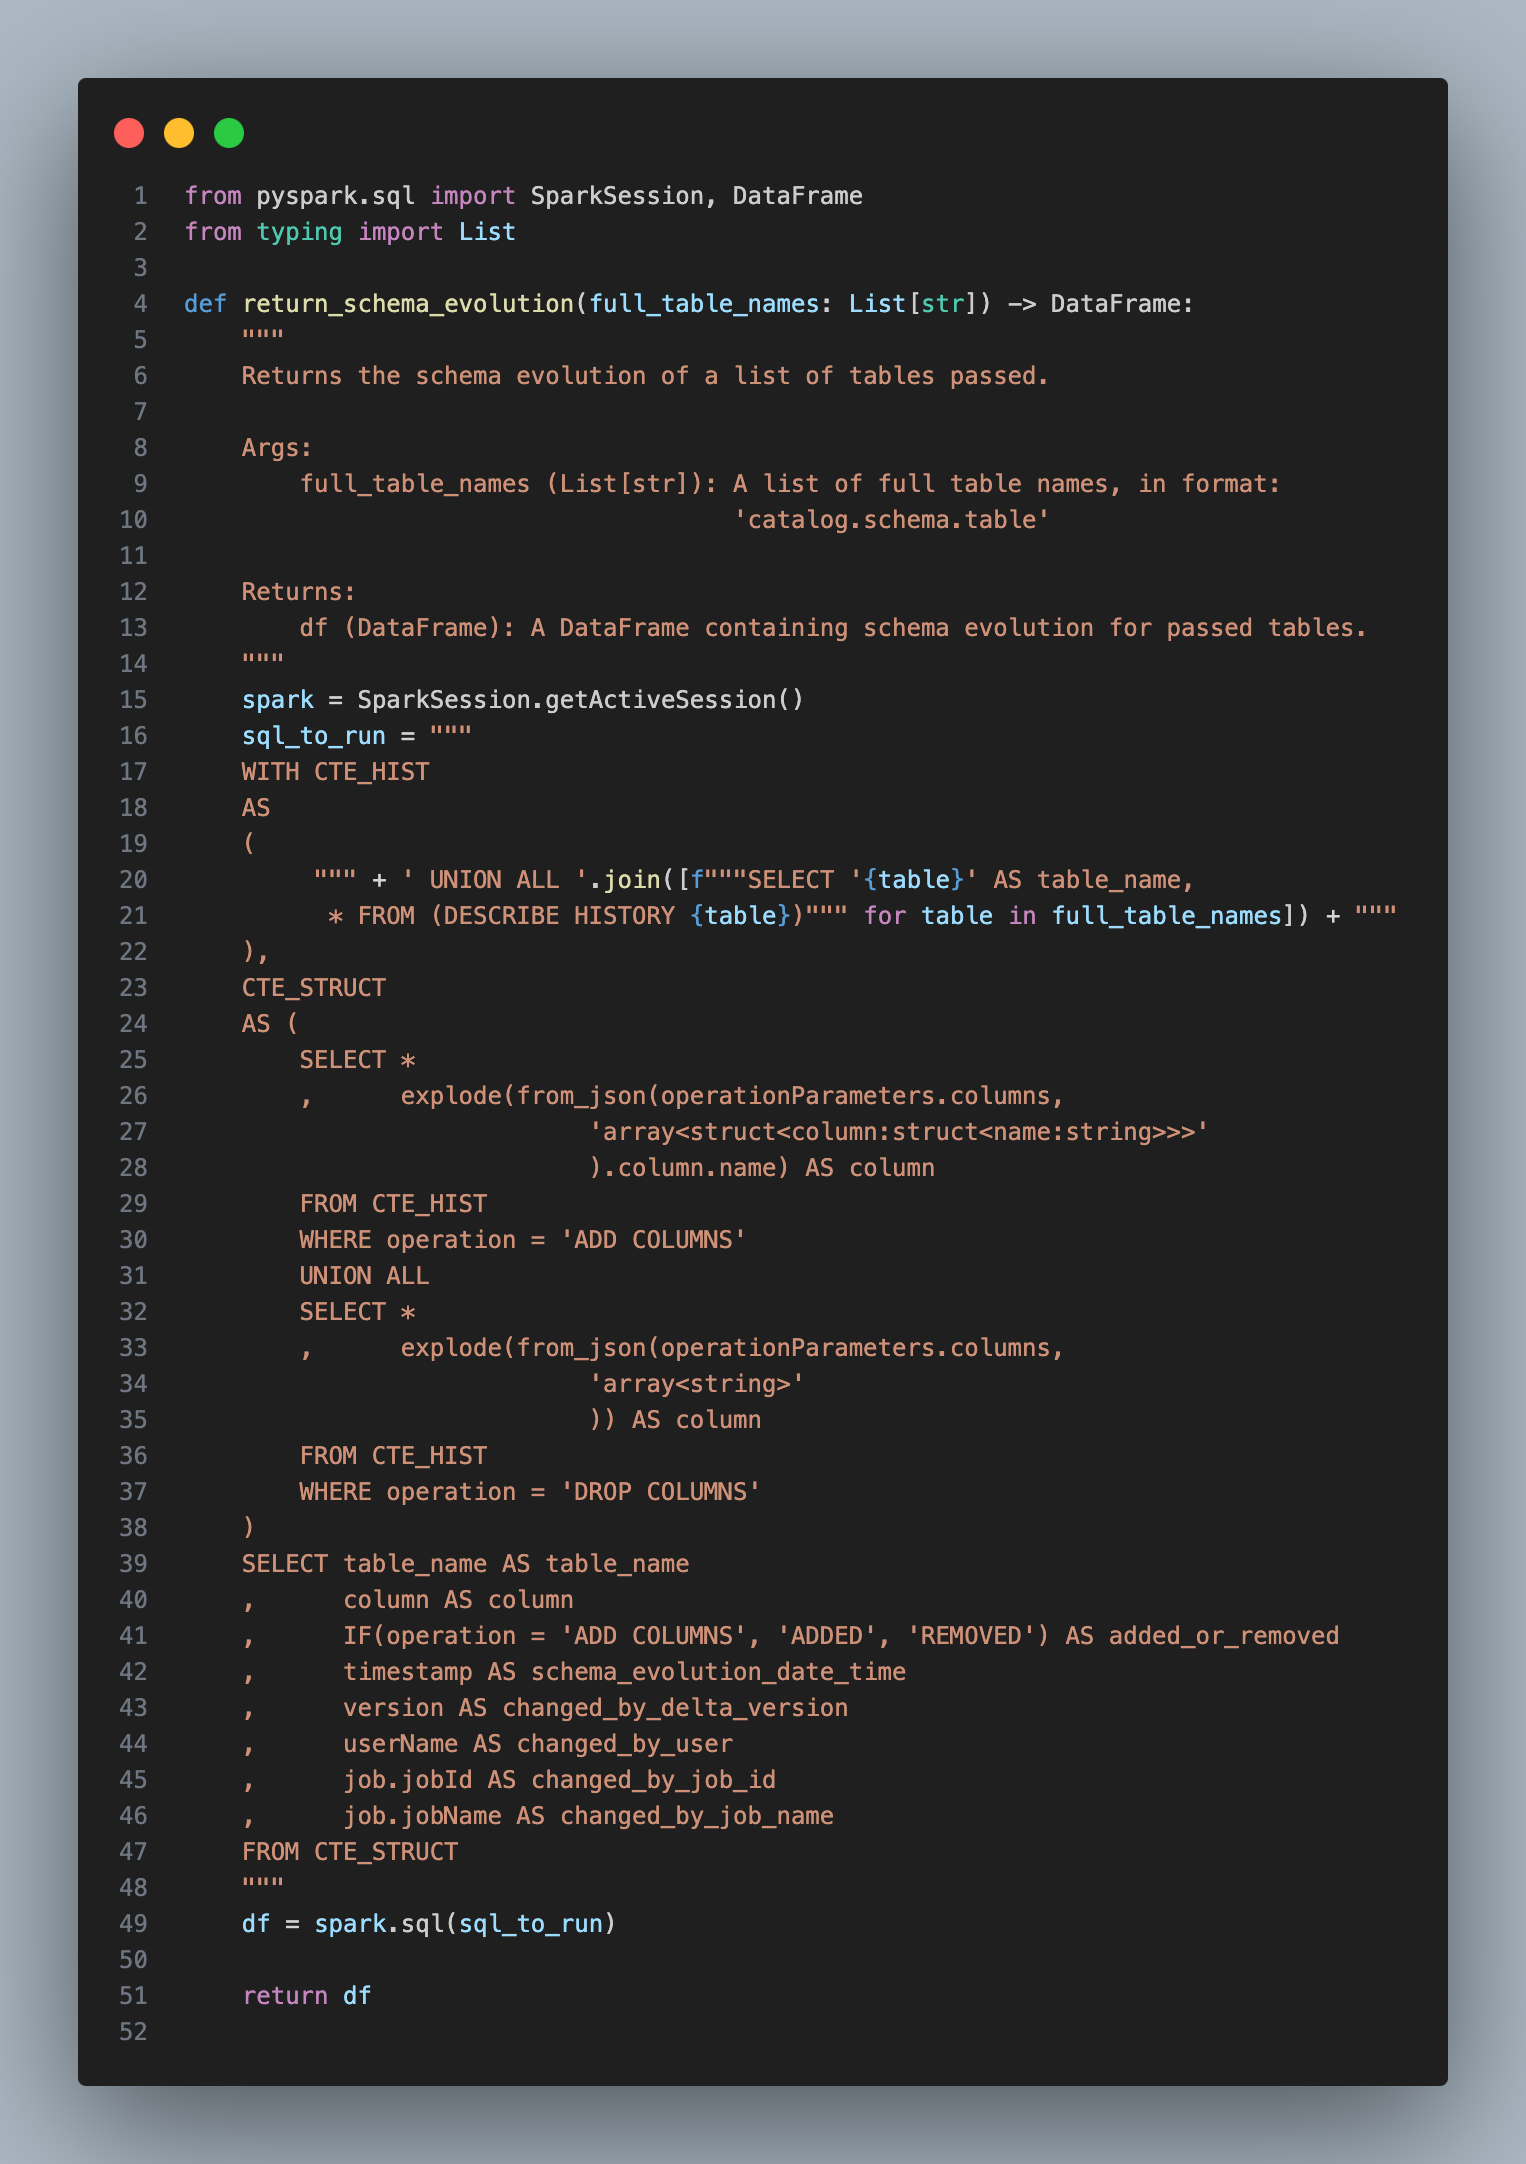
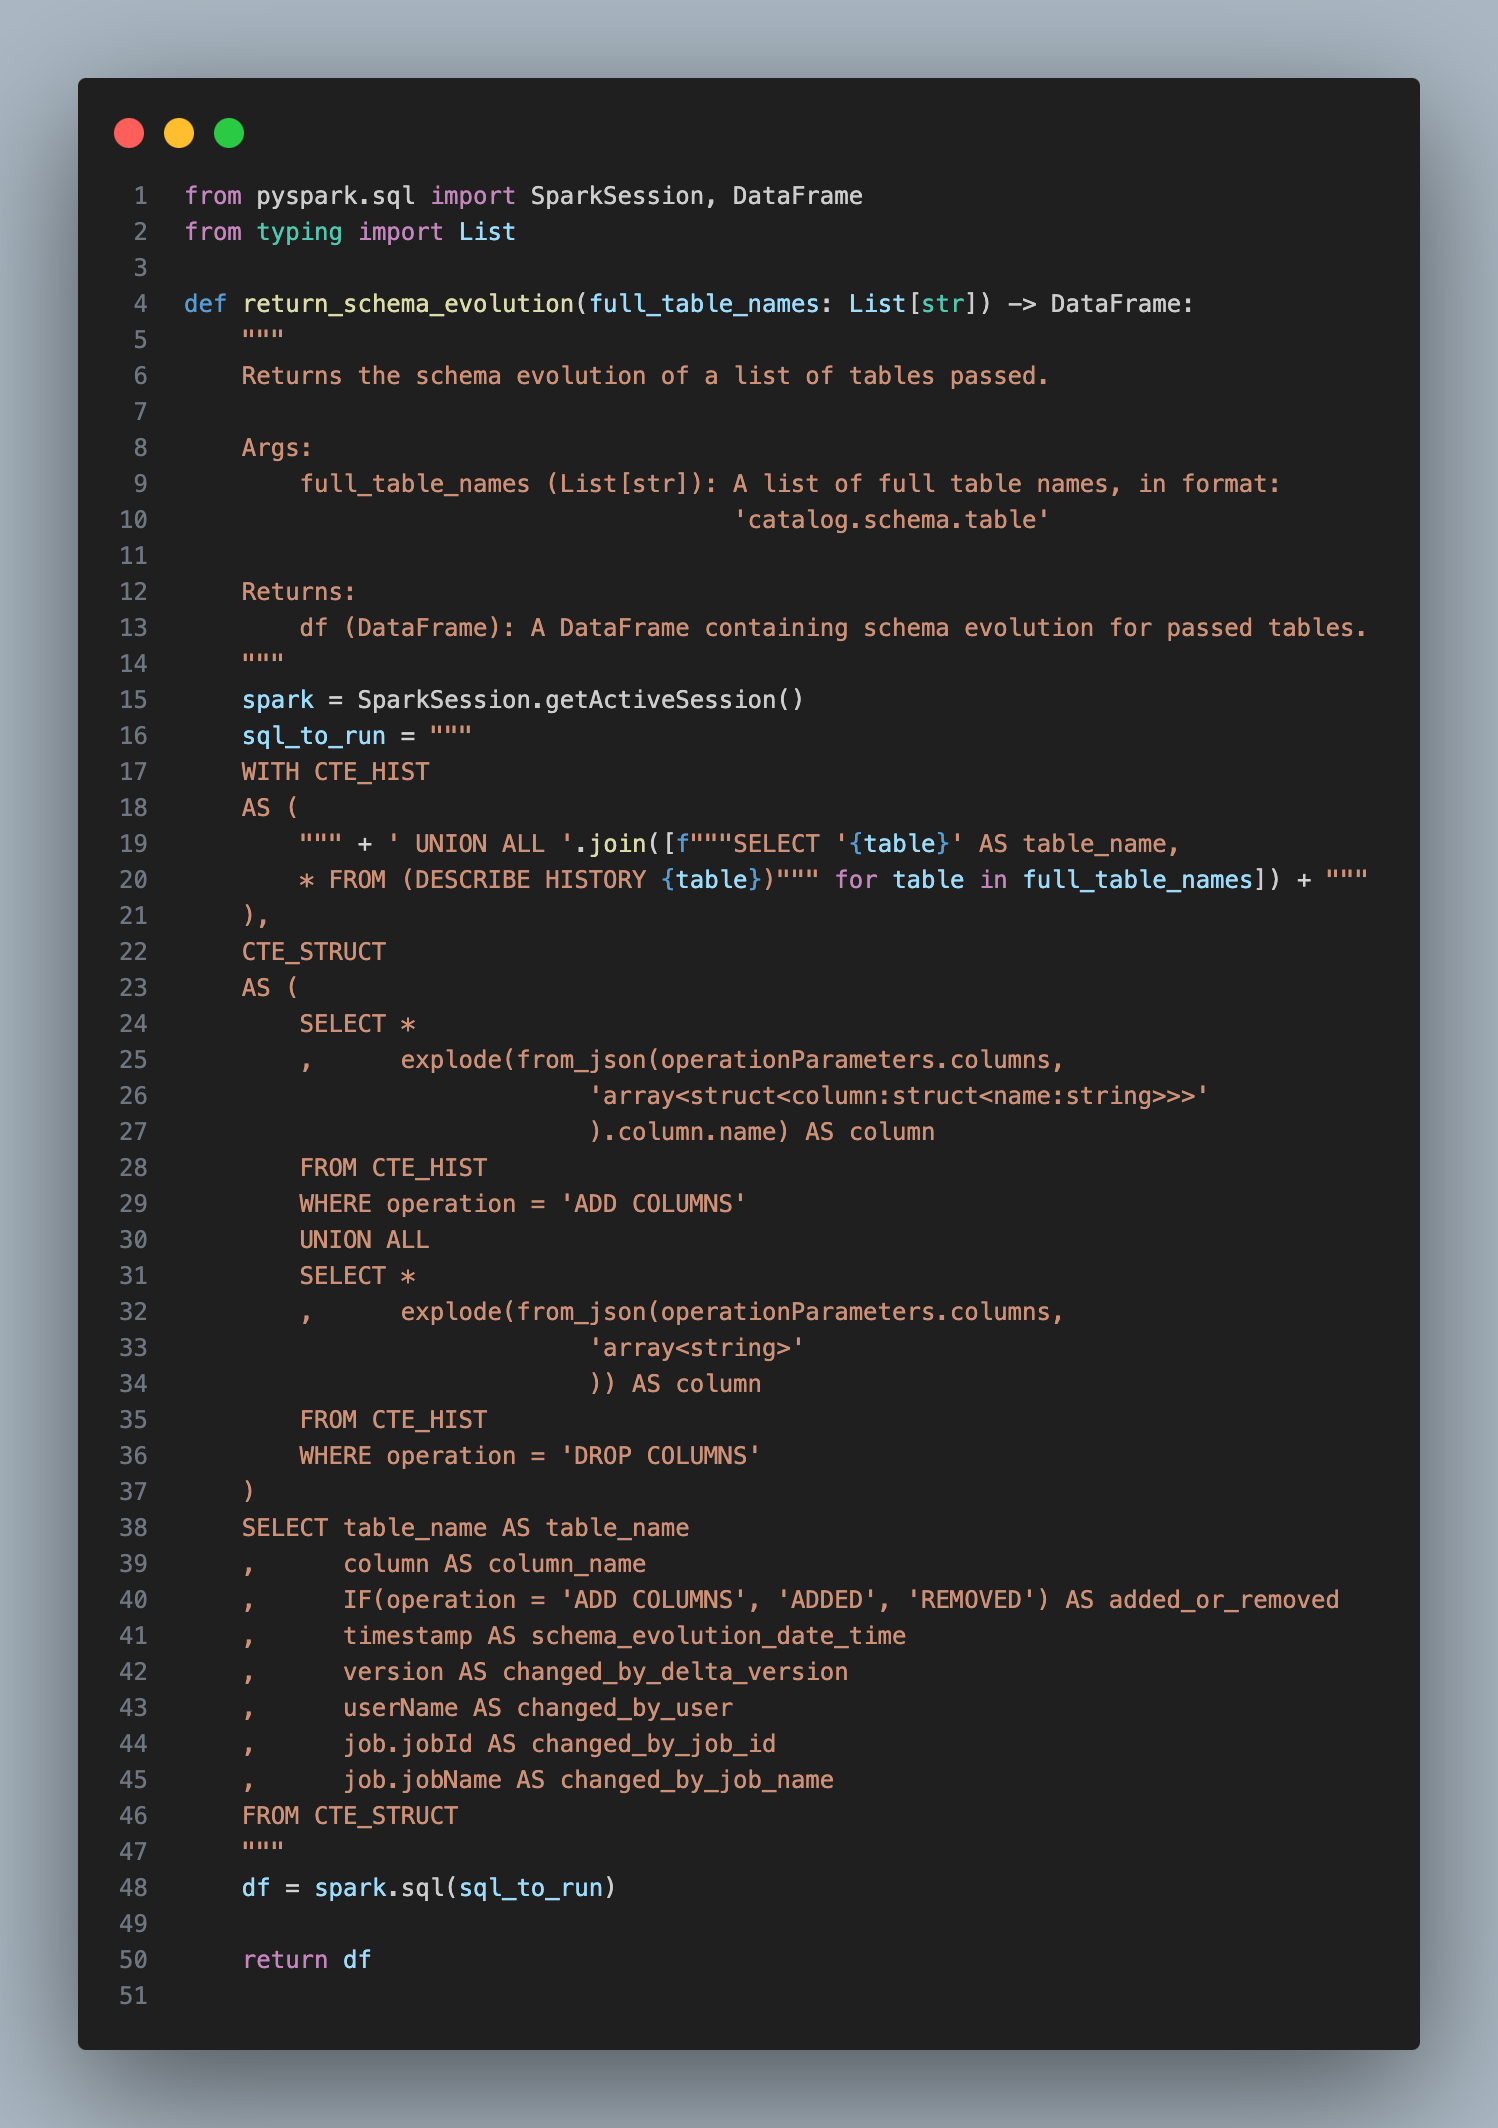
small typo

diff --git a/code-snippets/schema-evolution2.py b/code-snippets/schema-evolution2.py
@@ -15,10 +15,9 @@ def return_schema_evolution(full_table_names: List[str]) -> DataFrame:
     spark = SparkSession.getActiveSession()
     sql_to_run = """
     WITH CTE_HIST
-    AS
-    (
-         """ + ' UNION ALL '.join([f"""SELECT '{table}' AS table_name,
-          * FROM (DESCRIBE HISTORY {table})""" for table in full_table_names]) + """
+    AS (
+        """ + ' UNION ALL '.join([f"""SELECT '{table}' AS table_name,
+        * FROM (DESCRIBE HISTORY {table})""" for table in full_table_names]) + """
     ),
     CTE_STRUCT
     AS (
